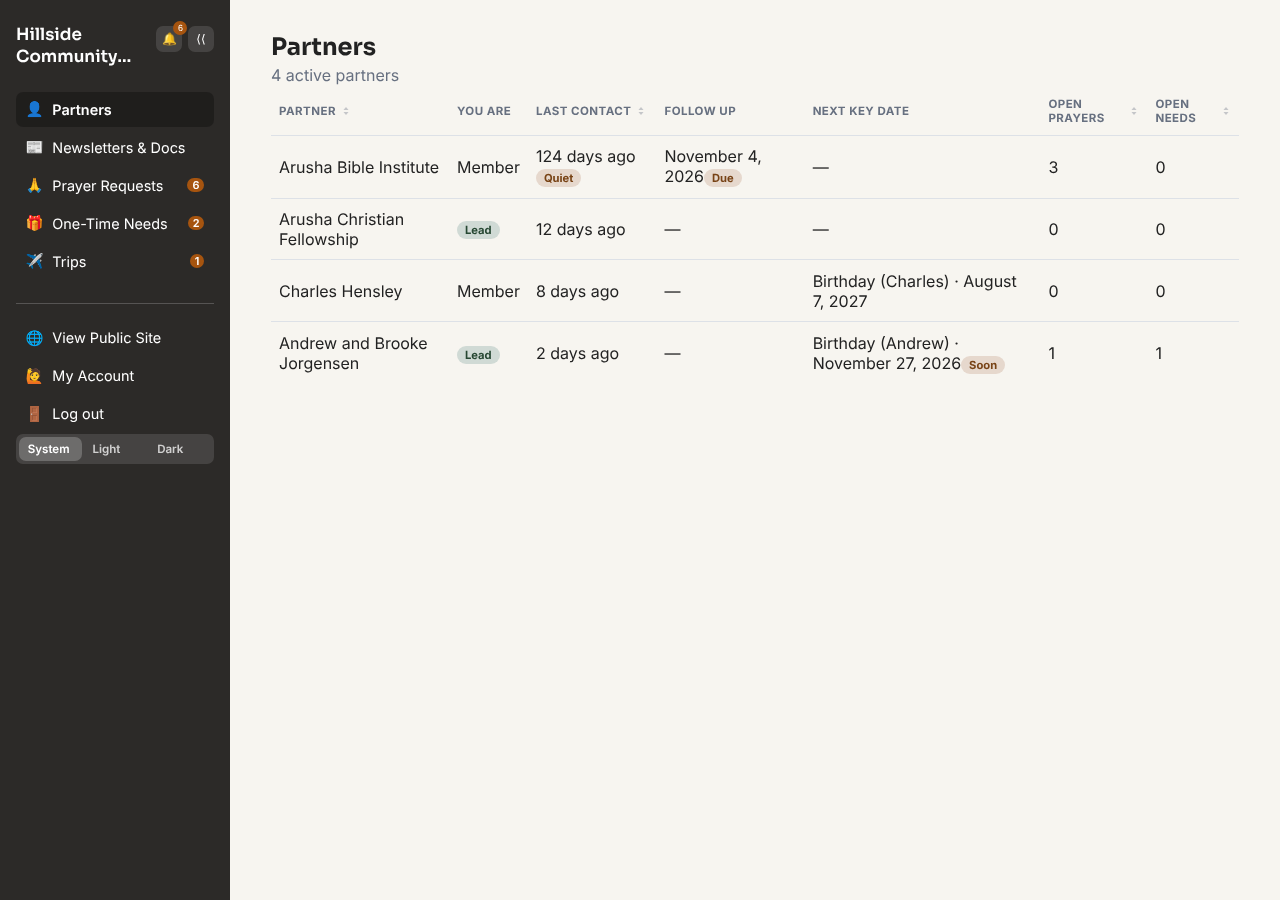
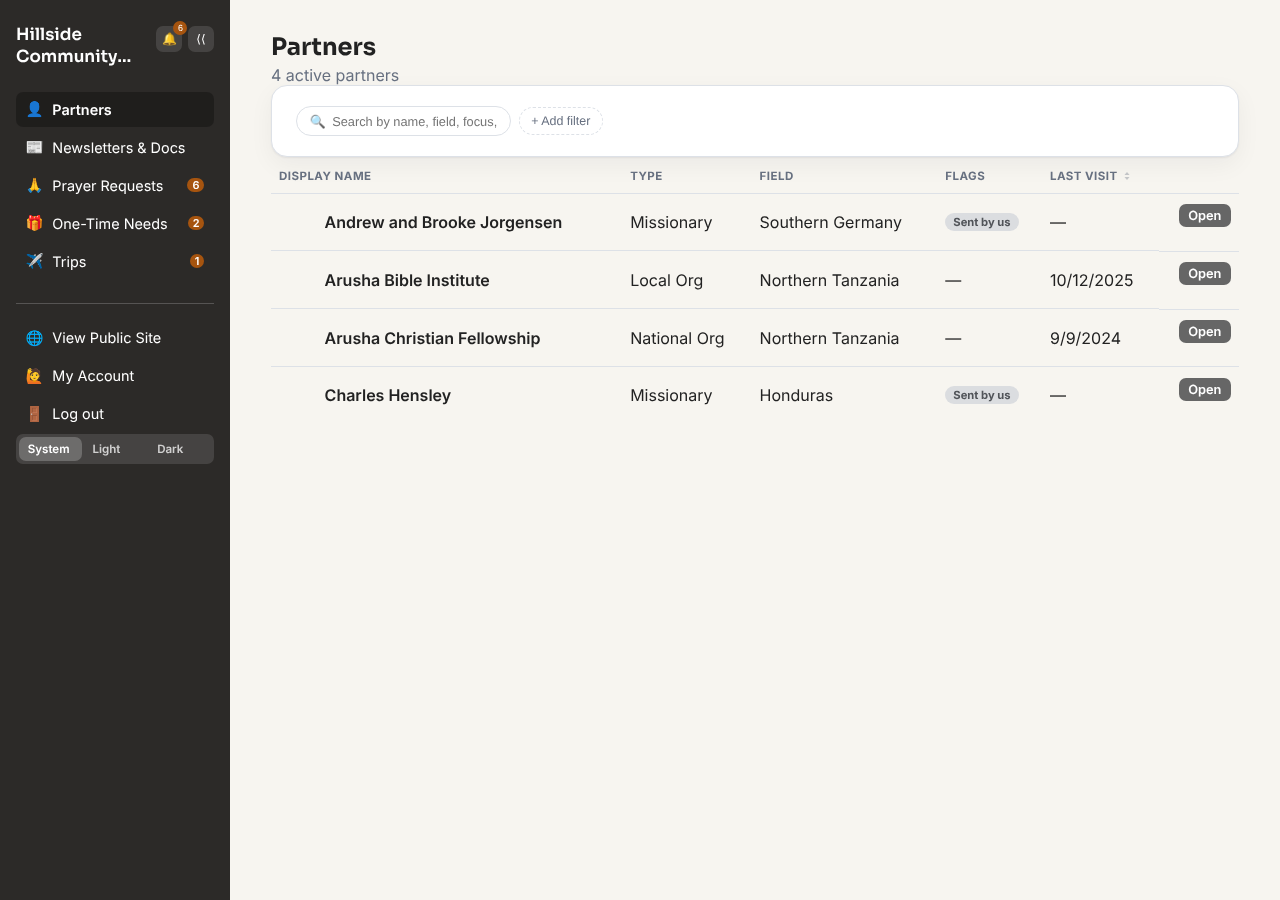
Every guest sees one plain Partners list
A trip guest and a care team guest now get the same page: one list of every partner they can reach, with no tabs. Staff on a care team keep All and the My partners tab. Updates the user guide, CHANGELOG and the guest Partners screenshot.

Claude-Session: https://claude.ai/code/session_01MmRKDYXLtPvHu3ZZXFwPQ9

diff --git a/frontend/src/utils/partnersTabs.js b/frontend/src/utils/partnersTabs.js
@@ -3,13 +3,12 @@
 //
 // - Staff (admin/editor/viewer) land on All and can switch to My partners: it is an
 //   option, not the default, so nobody who manages the whole list is moved away from it.
-// - A care team guest only ever sees the partners they are on the team for, so they get
-//   My partners alone: no All tab, no tab bar.
+// - A guest, whether on a care team, given a trip or both, sees one plain list of every
+//   partner they can reach: no tabs. A trip guest and a care team guest get the same page.
 //
 // `assignedParam` is the `?assigned=` query value (the notification links use "1").
 // Returns { showAssigned, showTabs }.
 export function partnersTabState({ hasAssignedTab, isGuest, assignedParam }) {
-  if (!hasAssignedTab) return { showAssigned: false, showTabs: false };
-  if (isGuest) return { showAssigned: true, showTabs: false };
+  if (!hasAssignedTab || isGuest) return { showAssigned: false, showTabs: false };
   return { showAssigned: assignedParam === "1", showTabs: true };
 }

diff --git a/frontend/src/pages/AdminPartners.jsx b/frontend/src/pages/AdminPartners.jsx
@@ -106,16 +106,13 @@ export default function AdminPartners() {
   const [searchParams, setSearchParams] = useSearchParams();
   const hasAssignedTab =
     !!enabledFeatures.contactLog && !!enabledFeatures.careTeam && careTeamSeats.length > 0;
-  // Staff land on All; a care team guest gets My partners alone (see utils/partnersTabs.js).
+  // Staff land on All; a guest gets one plain list, no tabs (see utils/partnersTabs.js).
   const { showAssigned, showTabs } = partnersTabState({
     hasAssignedTab,
     isGuest,
     assignedParam: searchParams.get("assigned"),
   });
-  const setTab = (assigned) =>
-    setSearchParams(isGuest ? (assigned ? {} : { assigned: "0" }) : assigned ? { assigned: "1" } : {}, {
-      replace: true,
-    });
+  const setTab = (assigned) => setSearchParams(assigned ? { assigned: "1" } : {}, { replace: true });
 
   useEffect(() => {
     fetchPartners().then(setAllForOptions).catch(console.error);

diff --git a/frontend/src/utils/partnersTabs.test.js b/frontend/src/utils/partnersTabs.test.js
@@ -19,10 +19,10 @@ describe("partnersTabState", () => {
     });
   });
 
-  it("gives a care team guest My partners alone, whatever the URL asks for", () => {
-    expect(partnersTabState({ ...base, isGuest: true })).toEqual({ showAssigned: true, showTabs: false });
-    expect(partnersTabState({ ...base, isGuest: true, assignedParam: "0" })).toEqual({
-      showAssigned: true,
+  it("gives every guest one plain list, whatever the URL asks for", () => {
+    expect(partnersTabState({ ...base, isGuest: true })).toEqual({ showAssigned: false, showTabs: false });
+    expect(partnersTabState({ ...base, isGuest: true, assignedParam: "1" })).toEqual({
+      showAssigned: false,
       showTabs: false,
     });
   });

diff --git a/CHANGELOG.md b/CHANGELOG.md
@@ -22,7 +22,7 @@ see [UPGRADING.md](UPGRADING.md) for the actual update steps.
 
 ### Changed
 
-- **"Assigned to me" is now "My partners"**, matching the key-date email's "Open my partners" button. A care team guest lands on it when they open Partners, and the All tab is hidden for them when every partner they can see is one they look after; staff on a care team still land on All and switch to it with the tab.
+- **"Assigned to me" is now "My partners"**, matching the key-date email's "Open my partners" button. Staff on a care team land on All and switch to it with the tab; a guest, whether on a care team or given a trip, sees one plain list of every partner they can reach, with no tabs.
 - **Filter by sending church, everywhere it applies.** A **Sending church** filter (our own church first as "Sent by us", then each other church with its partner count, matched case-insensitively) is on the Partners, Newsletters & Docs, Trips, Prayer Requests, One-Time Needs and Monthly Support lists and on every report that lists partners. New `GET /api/partners/sending-churches` (staff) for the options, and a `sendingChurch` parameter on the list routes and reports. The Partners list's **Flags** column is not sortable (a row can carry several flags); use the filter.
 - **Cleaner lists.** The Trips list drops its Type and Trip Type columns (the partner name and the filters identify a trip); Partners shows the photo beside the name instead of in a blank column and merges Public, Restricted and Sent By Us into one **Flags** column showing only exceptions; Monthly support drops Type; Manage Users drops Auth (always "local"). The partner page header shows pills only for what is out of the ordinary (Not safe to contact, Not public, Restricted-access, Sent by us, On furlough, Archived), since the usual state is in the Status & Visibility card.
 - **Settings navigation order.** About App (version, system info, backups) moves to the end of Settings, after the per-feature settings, so Enabled Features is followed directly by the settings it controls; the Settings home tiles follow the same order. A test keeps the sidebar, the tiles and the route table in agreement.

diff --git a/USER_GUIDE.md b/USER_GUIDE.md
@@ -1095,9 +1095,9 @@ They also can't create or delete partners, or delete records. If you're an admin
 
 ![Pending Dispatches, where an entry from a care team member is held for staff to approve](docs/assets/screenshots/pending-dispatches-care-team.png)
 
-A care team **Guest** lands on **My partners** when they open Partners (there's no All tab when every partner they can see is one they look after), with their partners longest-quiet first. Staff who are on a care team still land on All and switch to the **My partners** tab when they want it.
+A **Guest**, whether on a care team, given a trip, or both, sees one plain **Partners** list of every partner they can reach, with no tabs. Staff who are on a care team still land on All and switch to the **My partners** tab when they want it.
 
-![A care team guest's Partners page, which opens on My partners](docs/assets/screenshots/care-team-member-partners.png)
+![A care team guest's Partners page: one list of the partners they can reach](docs/assets/screenshots/care-team-member-partners.png)
 
 A **trip leader** (a Guest given a trip) has a smaller view: their trips, and those trips' partners read-only. They don't get the care-team list pages or one-time needs.
 
